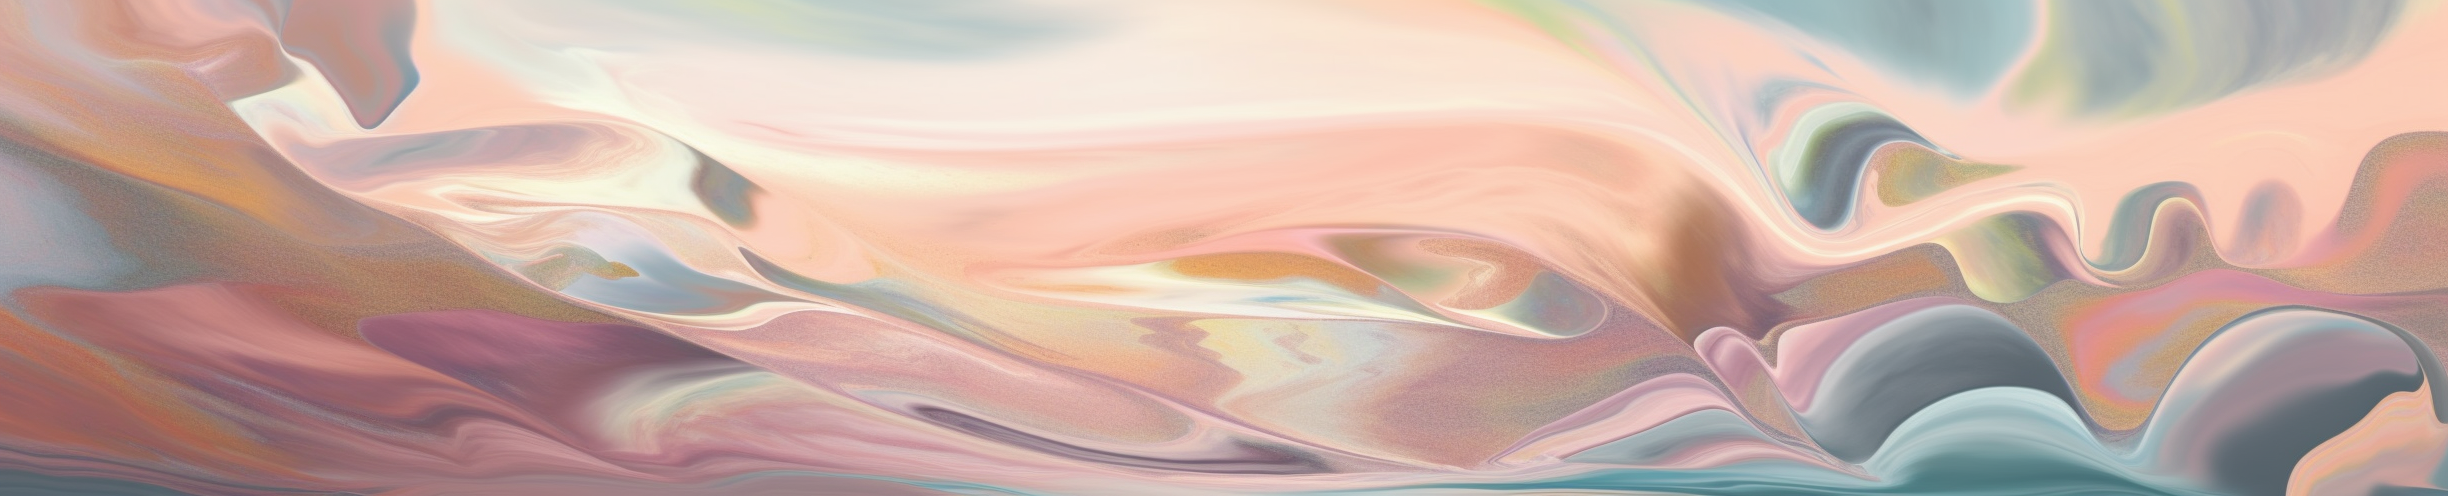
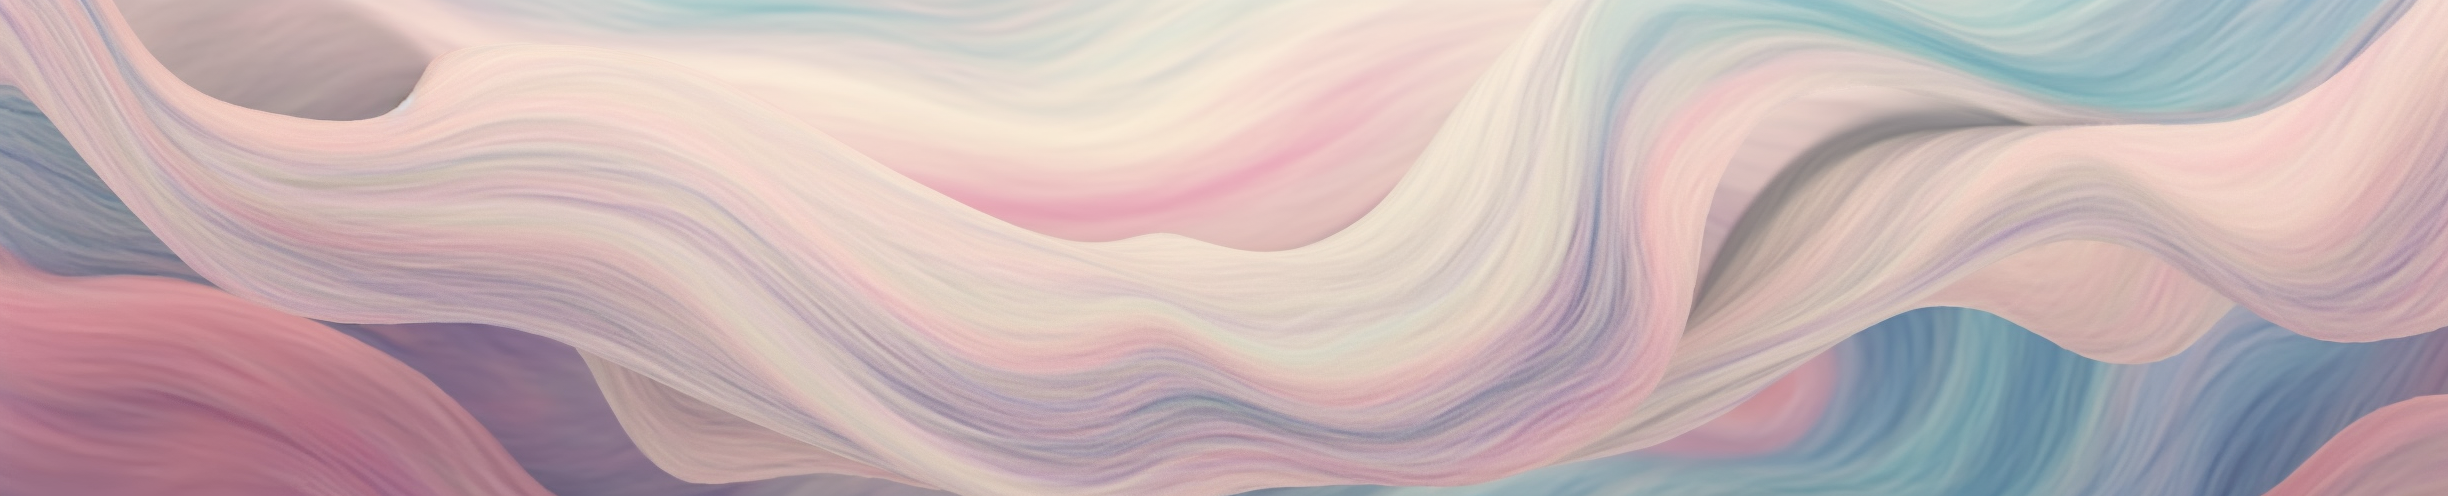
ultime bafouille

diff --git a/assets/styles/index.css b/assets/styles/index.css
@@ -74,7 +74,7 @@ p {
   padding-bottom: 0.4rem;
 }
 .discretlink svg {
-  height: 10px;
+  height: 12px;
   fill: #ebbbc9;
   transition: 0.6s;
 }
@@ -133,11 +133,12 @@ header .header-container nav {
   background: url(../img/header-jl-visual.png) center/cover;
   width: 100%;
   height: 20vh;
-  transform: translateY(-20vh);
   min-height: 60px;
   transition: 1.4s ease-out;
   min-height: 13vh;
   display: flex;
+  opacity: 0;
+  filter: blur(1rem);
 }
 header .header-container nav ul {
   display: flex;
@@ -195,10 +196,10 @@ header .header-container .headertxtcontainer h1 {
   line-height: 100%;
 }
 header .header-container .headertxtcontainer .headertxtsup {
-  opacity: 0;
   transition: 1s ease-out;
-  transform: translateY(10vh);
   margin: 0 auto;
+  opacity: 0;
+  filter: blur(1rem);
   width: var(--1pr);
   display: flex;
   flex-direction: column;
@@ -225,7 +226,7 @@ header .header-container .headertxtcontainer .headertxtsup #acontainer a {
   align-items: center;
   gap: 1rem;
   width: var(--1pr);
-  max-width: 470px;
+  max-width: 478px;
   margin-bottom: 20vh;
 }
 .sec-presentation .sec-presentation-container img {
@@ -319,10 +320,10 @@ header .header-container .headertxtcontainer .headertxtsup #acontainer a {
   left: 0;
   height: 7.9605334792vh;
   width: 100%;
-  background: url(../img/header-jl-visual.png) center/cover fixed;
+  background: url(../img/bg-scroll-contact.png) center/cover fixed;
   z-index: -1;
 }
-@media (max-width: 357px) {
+@media (max-width: 460px) {
   .sec-contact #asvg2 {
     display: none;
   }
@@ -350,10 +351,7 @@ header .header-container .headertxtcontainer .headertxtsup #acontainer a {
 .sec-art-mart #art-mart-img {
   background: url("../img/art-martial-bg.jpg") no-repeat center/cover;
   margin-left: -12.2556050427vw;
-  border-radius: 0.4rem;
-  transition: ease-out 3s;
-  transform: translateX(-50vw);
-  opacity: 0.4;
+  border-radius: 0.1rem;
 }
 @media (max-width: 580px) {
   .sec-art-mart #art-mart-img {
@@ -408,7 +406,7 @@ header .header-container .headertxtcontainer .headertxtsup #acontainer a {
 }
 
 footer {
-  background: url(../img/header-jl-visual.png) center/cover no-repeat;
+  background: url(../img/footer-jl-visual.png) center/cover no-repeat;
   padding: 1rem;
 }
 footer .footer-date {

diff --git a/assets/js/main.js b/assets/js/main.js
@@ -5,10 +5,12 @@ const txtHeader = document.querySelector(".headertxtsup");
 
 document.addEventListener("DOMContentLoaded", () => {
   setTimeout(() => {
-    navBar.style.transform = "translateY(0)";
+    navBar.style.filter = "blur(0)";
+    navBar.style.opacity = "1";
+    z;
   }, 2500);
   setTimeout(() => {
-    txtHeader.style.transform = "translateY(0)";
+    txtHeader.style.filter = "blur(0)";
     txtHeader.style.opacity = "1";
   }, 3200);
 });
@@ -37,37 +39,20 @@ window.addEventListener("scroll", () => {
 
 // ART MART
 
-const artMartDiv = document.querySelector(".sec-art-mart");
-const artMartImg = document.querySelector("#art-mart-img");
-
-window.addEventListener("scroll", () => {
-  const windowHeight = window.innerHeight;
-
-  const divRect = artMartDiv.getBoundingClientRect();
-  const divTop = divRect.top;
-  const divBottom = divRect.bottom;
-
-  const divPosition = divTop + (divBottom - divTop) / 2;
-
-  if (divPosition >= 0 && divPosition <= windowHeight) {
-    artMartImg.style.transform = "translateX(0)";
-    artMartImg.style.opacity = "1";
-  }
-});
-
-// Before Contact
-
-// const beforeElement = document.querySelector("#prix::before");
-// const windowHeight = window.innerHeight;
+// const artMartDiv = document.querySelector(".sec-art-mart");
+// const artMartImg = document.querySelector("#art-mart-img");
 
 // window.addEventListener("scroll", () => {
-//   const scrollPosition = window.scrollY;
-//   const beforeHeight = windowHeight - scrollPosition;
+//   const windowHeight = window.innerHeight;
 
-//   // Limitez la hauteur minimale de l'élément ::before
-//   const minHeight = 50; // Ajustez cette valeur selon vos besoins
+//   const divRect = artMartDiv.getBoundingClientRect();
+//   const divTop = divRect.top;
+//   const divBottom = divRect.bottom;
 
-//   if (beforeHeight >= minHeight) {
-//     beforeElement.style.height = beforeHeight + "px";
+//   const divPosition = divTop + (divBottom - divTop) / 2;
+
+//   if (divPosition >= 0 && divPosition <= windowHeight) {
+//     artMartImg.style.transform = "translateX(0)";
+//     artMartImg.style.opacity = "1";
 //   }
 // });

diff --git a/assets/styles/partials/_header.scss b/assets/styles/partials/_header.scss
@@ -8,11 +8,12 @@ header {
       background: url(../img/header-jl-visual.png) center/cover;
       width: 100%;
       height: 20vh;
-      transform: translateY(-20vh);
       min-height: 60px;
       transition: 1.4s ease-out;
       min-height: 13vh;
       display: flex;
+      opacity: 0;
+      filter: blur(1rem);
 
       ul {
         display: flex;
@@ -76,10 +77,10 @@ header {
       }
 
       .headertxtsup {
-        opacity: 0;
         transition: 1s ease-out;
-        transform: translateY(10vh);
         margin: 0 auto;
+        opacity: 0;
+        filter: blur(1rem);
         width: var(--1pr);
         display: flex;
         flex-direction: column;

diff --git a/assets/styles/partials/_sec-contact.scss b/assets/styles/partials/_sec-contact.scss
@@ -49,13 +49,13 @@
       left: 0;
       height: 7.960533479238452vh;
       width: 100%;
-      background: url(../img/header-jl-visual.png) center/cover fixed;
+      background: url(../img/bg-scroll-contact.png) center/cover fixed;
       z-index: -1;
     }
   }
 
   #asvg2 {
-    @media (max-width: 357px) {
+    @media (max-width: 460px) {
       display: none;
     }
   }

diff --git a/index.html b/index.html
@@ -35,7 +35,15 @@
 
     <script src="./assets/js/svg.js"></script>
     <script src="./assets/js/psi.js"></script>
-
+    <head>
+      <link
+        rel="preload"
+        href="./assets/font/Decoracha-Regular.woff2"
+        as="font"
+        type="font/woff2"
+        crossorigin
+      />
+    </head>
     <script defer src="./assets/js/main.js"></script>
   </head>
 

diff --git a/assets/styles/partials/_sec-art-mart.scss b/assets/styles/partials/_sec-art-mart.scss
@@ -20,10 +20,7 @@
   #art-mart-img {
     background: url("../img/art-martial-bg.jpg") no-repeat center/cover;
     margin-left: -12.255605042651169vw;
-    border-radius: 0.4rem;
-    transition: ease-out 3s;
-    transform: translateX(-50vw);
-    opacity: 0.4;
+    border-radius: 0.1rem;
 
     @media (max-width: 580px) {
       height: 30vh;

diff --git a/assets/styles/partials/_footer.scss b/assets/styles/partials/_footer.scss
@@ -1,5 +1,5 @@
 footer {
-  background: url(../img/header-jl-visual.png) center/cover no-repeat;
+  background: url(../img/footer-jl-visual.png) center/cover no-repeat;
   padding: 1rem;
   .footer-date {
     text-align: right;

diff --git a/assets/styles/partials/_sec-presentation.scss b/assets/styles/partials/_sec-presentation.scss
@@ -11,7 +11,7 @@
     align-items: center;
     gap: 1rem;
     width: var(--1pr);
-    max-width: 470px;
+    max-width: 478px;
     margin-bottom: 20vh;
 
     img {

diff --git a/assets/styles/_settings.scss b/assets/styles/_settings.scss
@@ -103,7 +103,7 @@ $psi: 1.3247;
   padding-bottom: 0.4rem;
 
   svg {
-    height: 10px;
+    height: 12px;
     fill: $c3;
     transition: 0.6s;
   }
